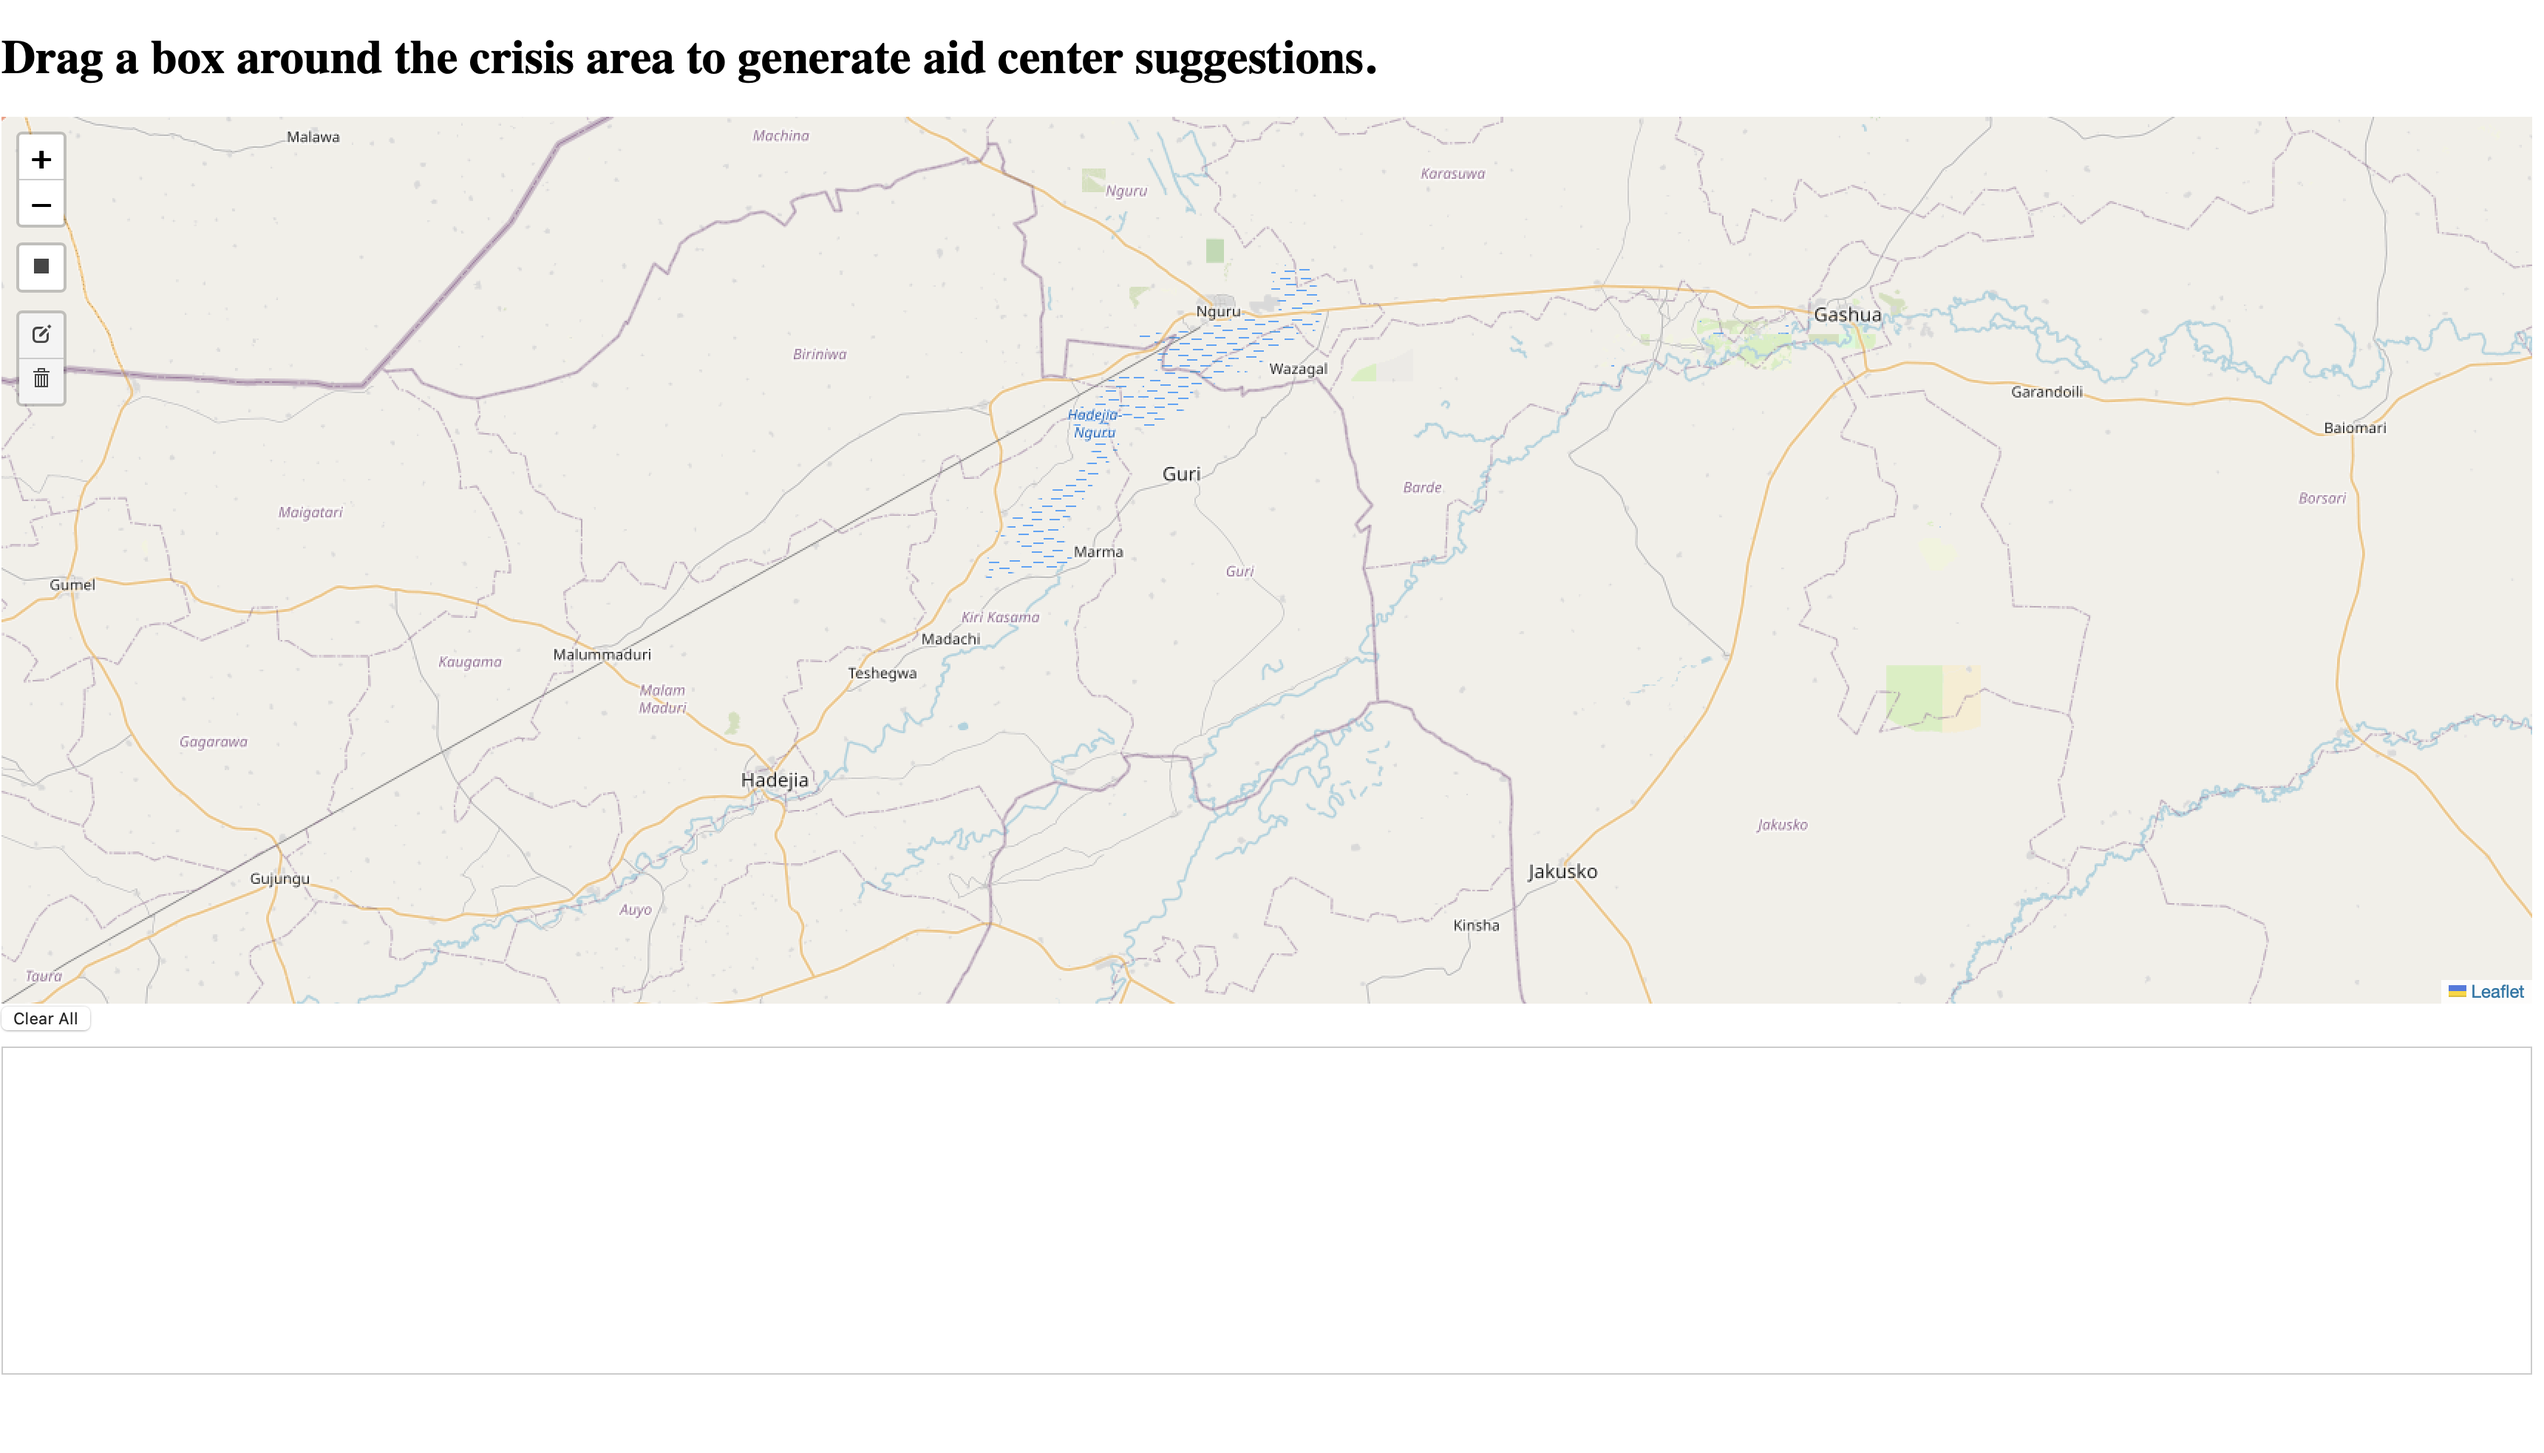
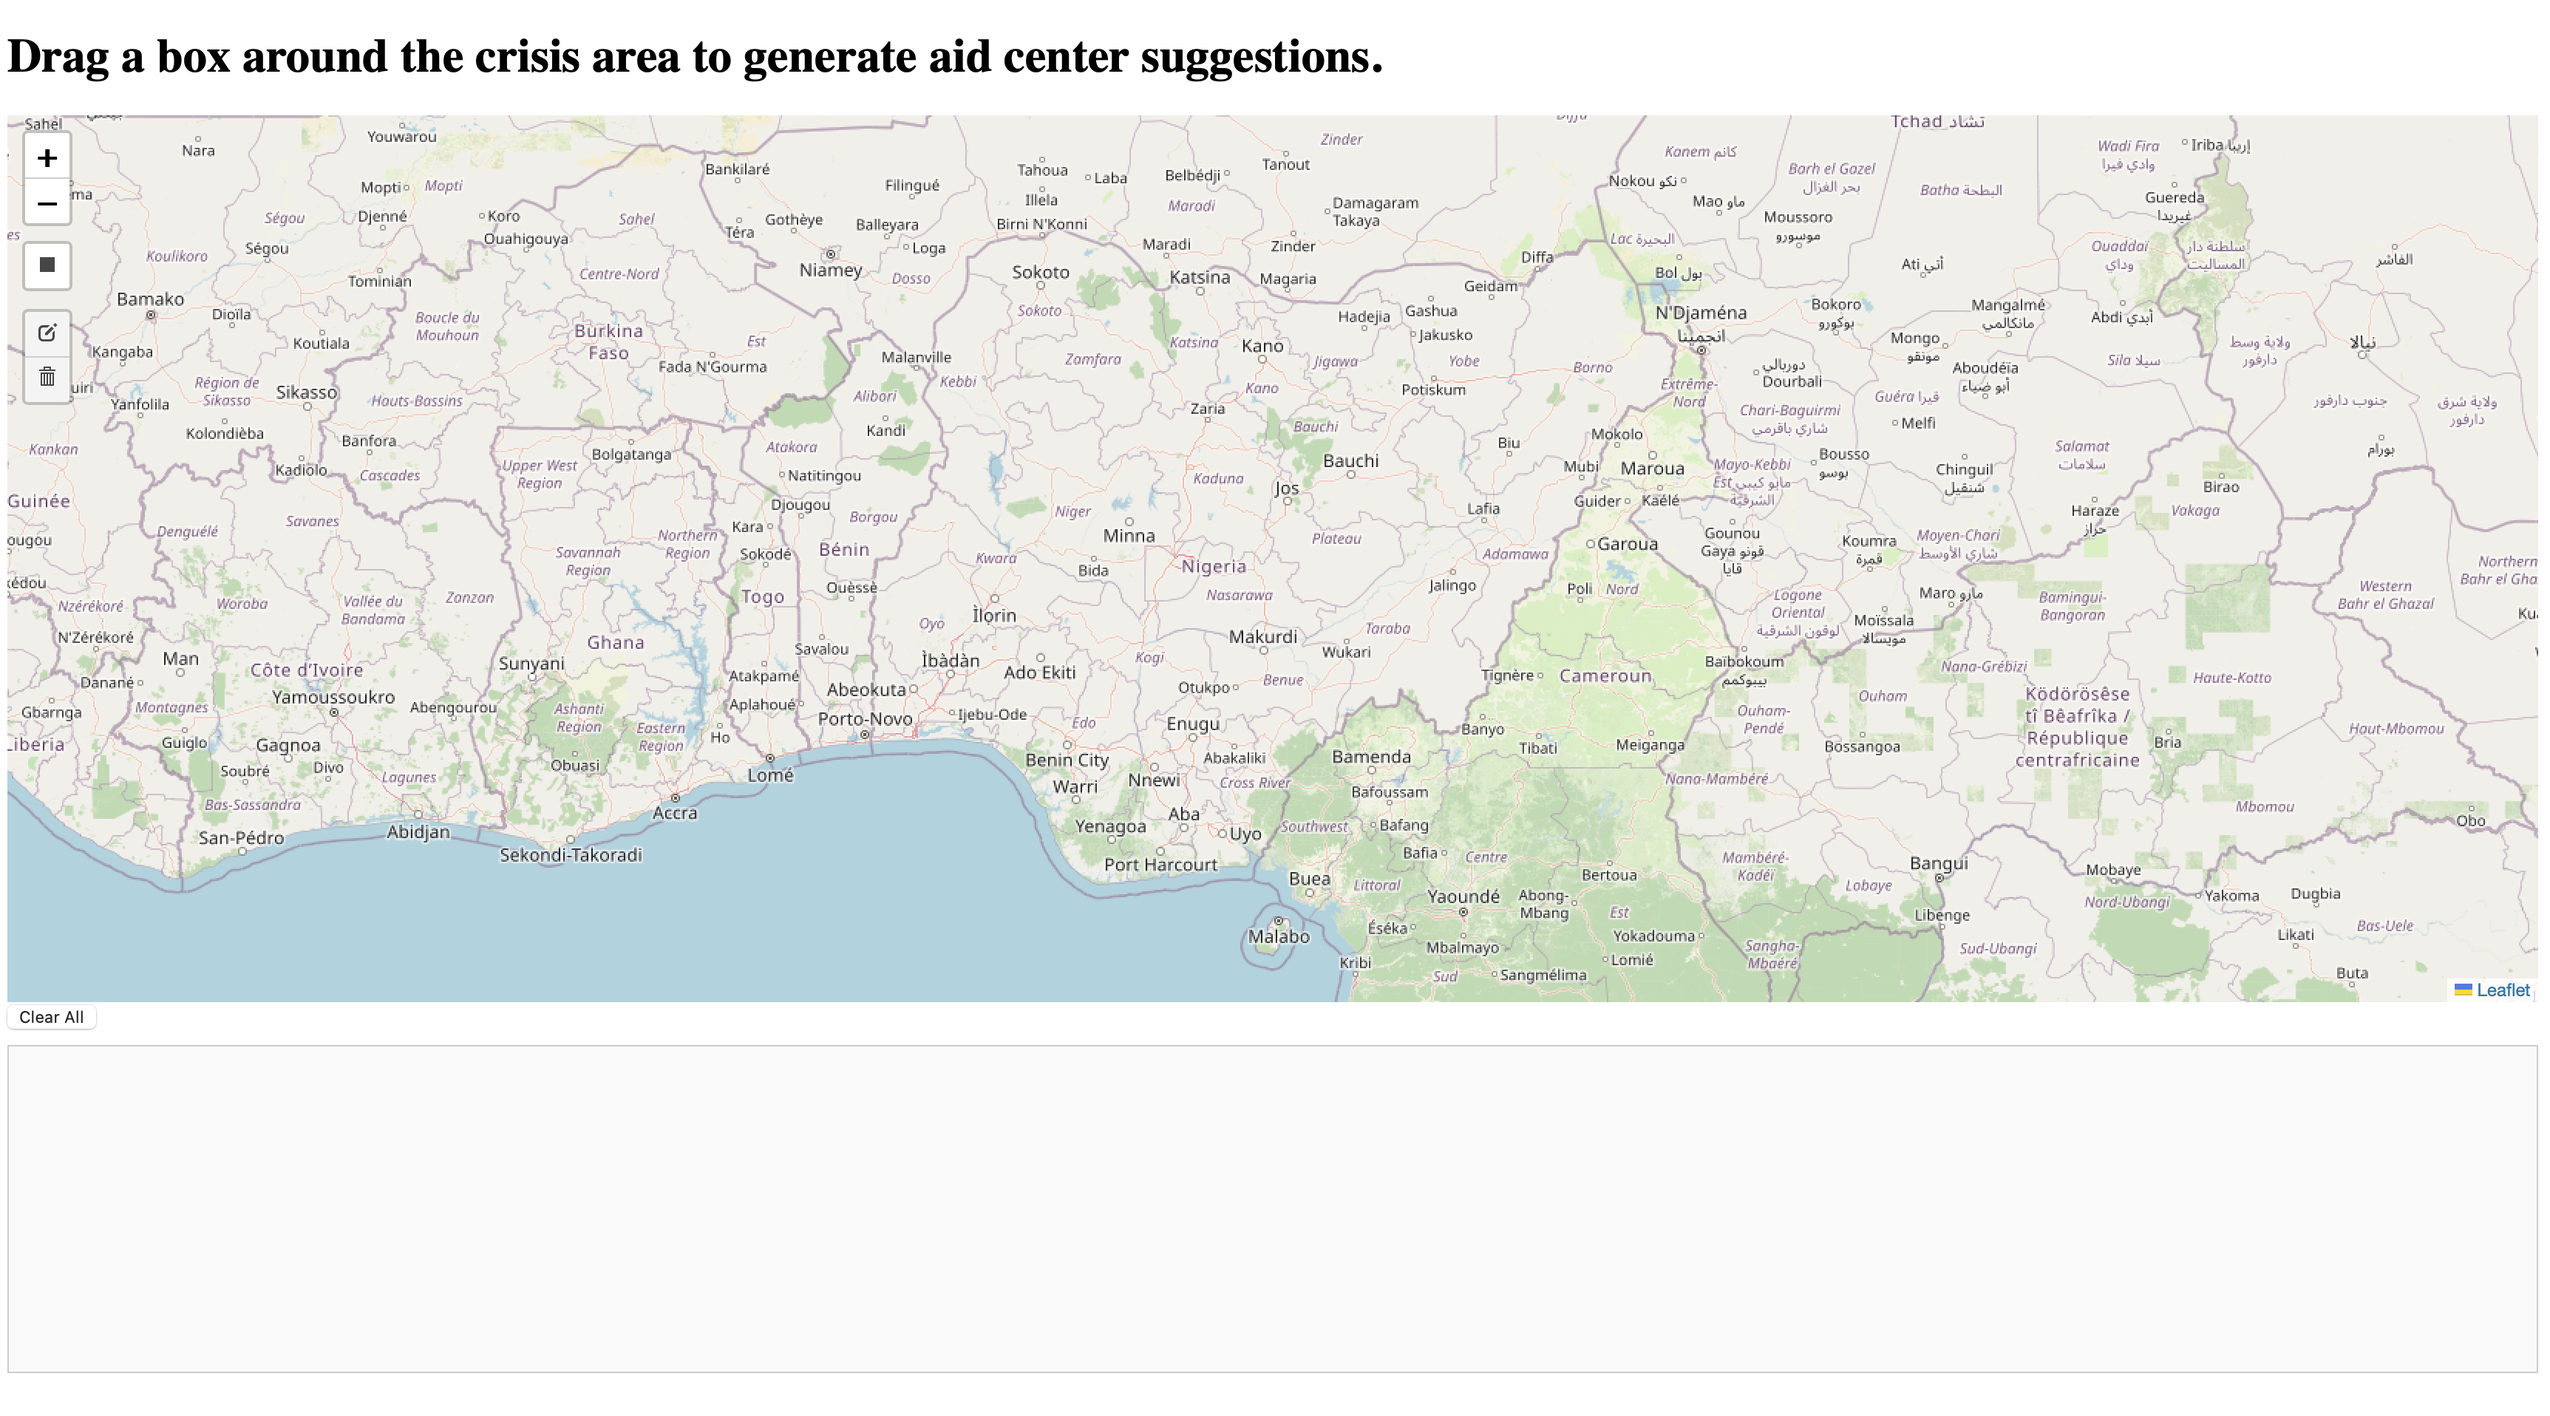
Updated screenshots

diff --git a/app/templates/index.html b/app/templates/index.html
@@ -18,6 +18,31 @@
             border: 1px solid #ccc;
             margin-top: 10px;
             padding: 10px;
+            font-family: Arial, sans-serif;
+            background-color: #f9f9f9;
+        }
+
+        #spinner {
+            display: none;
+            border: 4px solid #f3f3f3;
+            border-radius: 50%;
+            border-top: 4px solid #3498db;
+            width: 20px;
+            height: 20px;
+            animation: spin 2s linear infinite;
+            position: absolute;
+            z-index: 1000;
+            pointer-events: none;
+        }
+
+        @keyframes spin {
+            0% {
+                transform: rotate(0deg);
+            }
+
+            100% {
+                transform: rotate(360deg);
+            }
         }
     </style>
 </head>
@@ -27,6 +52,7 @@
     <div id="map"></div>
     <button id="clear-all">Clear All</button>
     <div id="log"></div>
+    <div id="spinner"></div>
     <script>
         var map = L.map('map').setView([9.0820, 8.6753], 6);
 
@@ -53,13 +79,27 @@
         });
         map.addControl(drawControl);
 
-        function logMessage(message) {
+        function logMessage(message, success = false) {
             var log = document.getElementById('log');
             var messageElement = document.createElement('p');
             messageElement.textContent = message;
+            if (success) {
+                messageElement.style.color = 'green';
+            }
             log.appendChild(messageElement);
             log.scrollTop = log.scrollHeight;  // Scroll to the bottom
         }
+
+        function showSpinner(show) {
+            var spinner = document.getElementById('spinner');
+            spinner.style.display = show ? 'block' : 'none';
+        }
+
+        document.addEventListener('mousemove', function (e) {
+            var spinner = document.getElementById('spinner');
+            spinner.style.left = e.pageX + 'px';
+            spinner.style.top = e.pageY + 'px';
+        });
 
         map.on('draw:created', function (e) {
             var layer = e.layer;
@@ -71,6 +111,8 @@
 
             logMessage("Selected coordinates: " + coord1 + ", " + coord2);
             logMessage("Starting process, please wait...")
+
+            showSpinner(true);
 
             fetch('/process', {
                 method: 'POST',
@@ -104,14 +146,13 @@
                         });
                         markers.addLayer(marker);
                     });
-                })
-                .then(data => {
-                    logMessage("Done!");
-                    return data;
+                    logMessage("Done!", true);
+                    showSpinner(false);
                 })
                 .catch(error => {
                     logMessage("Error: " + error);
                     console.error('Error:', error);
+                    showSpinner(false);
                 });
         });
 

diff --git a/app/backend.py b/app/backend.py
@@ -49,7 +49,7 @@ def process():
     coord2 = data["coord2"]
     print(f"Received coordinates: {coord1}, {coord2}")  # Debugging line
 
-    file_path = "nga_general_2020.csv"  # Replace with the actual file path
+    file_path = "app/nga_general_2020.csv"  # Replace with the actual file path
     lon_min = min(coord1["lng"], coord2["lng"])
     lon_max = max(coord1["lng"], coord2["lng"])
     lat_min = min(coord1["lat"], coord2["lat"])
